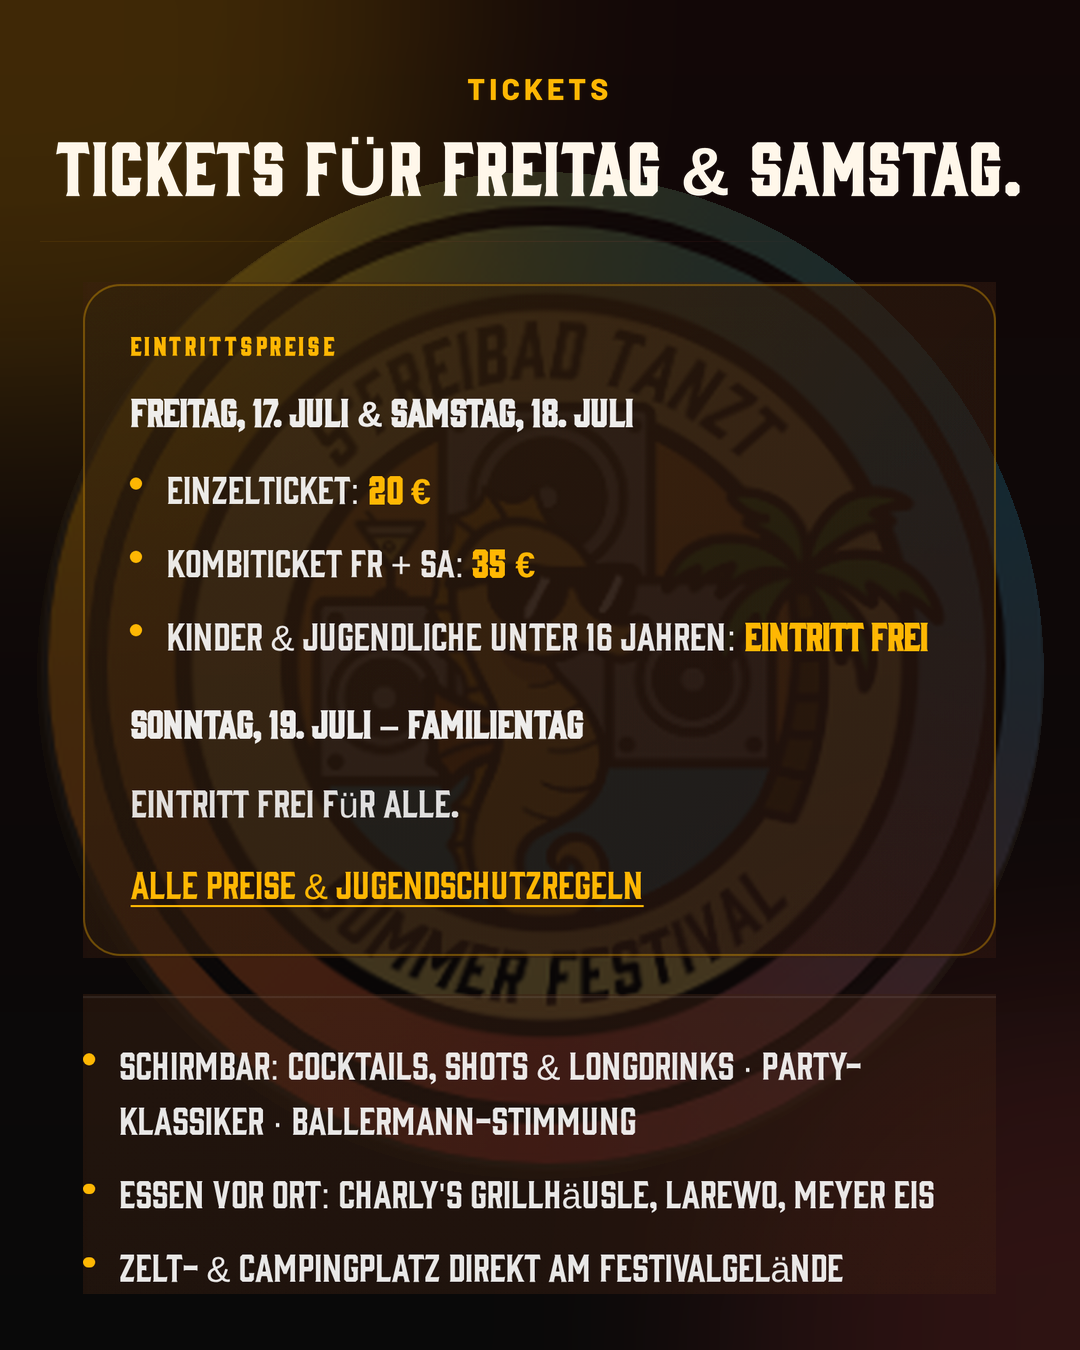
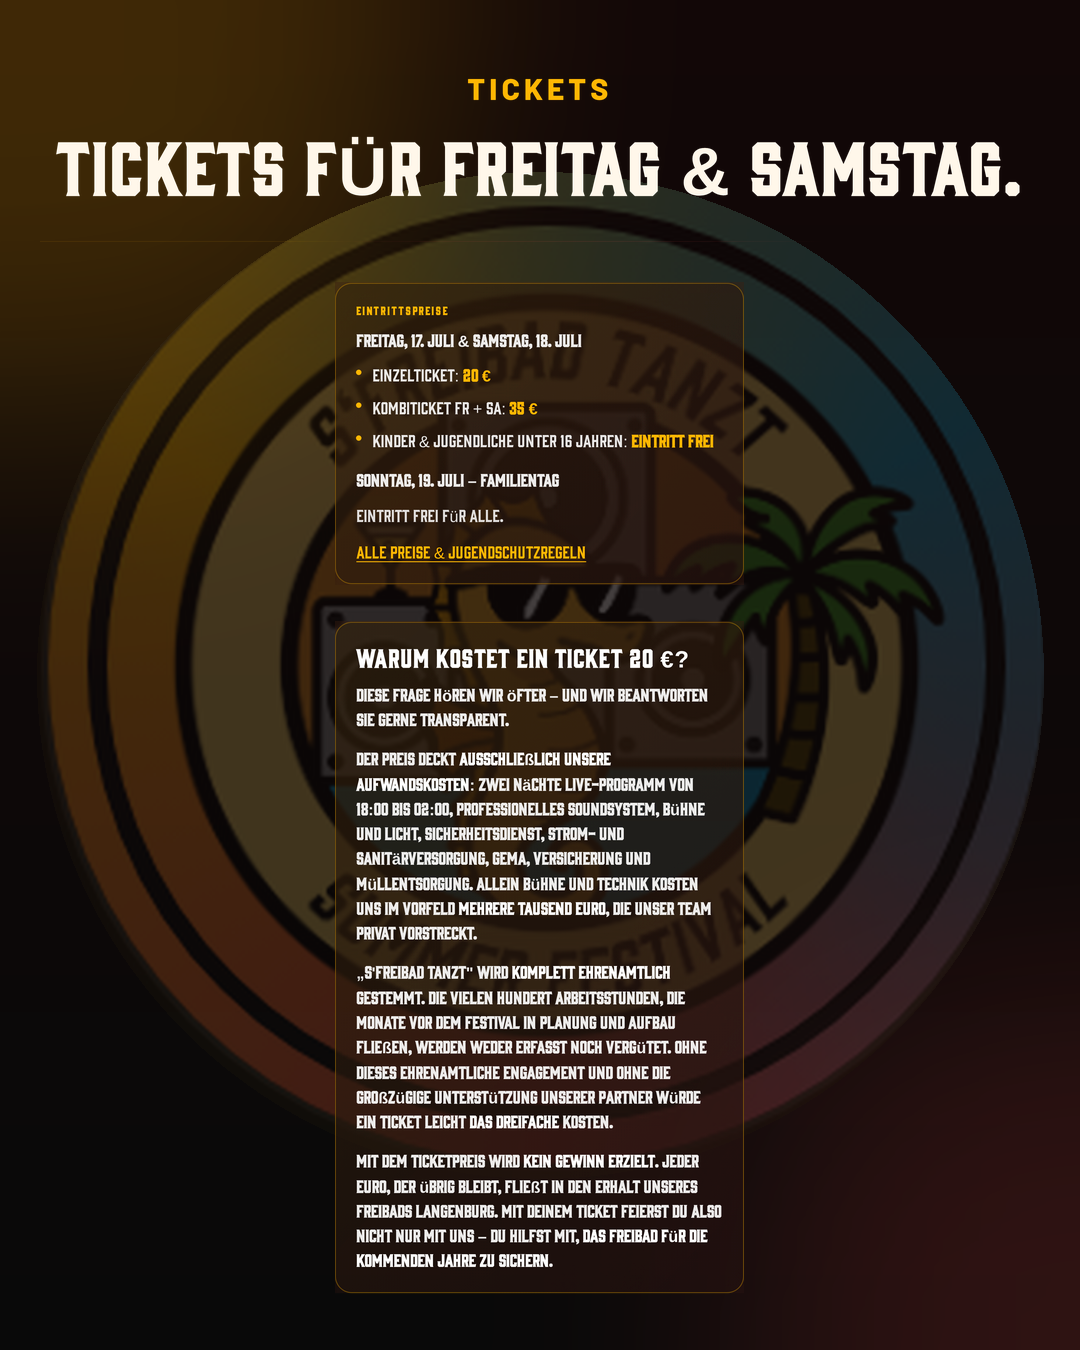
Camping-Anreise ab 12:00 Uhr, Ticket-Slides ohne VVK neu generiert
Anreise im Camping-Bereich und FAQ angepasst. Ticket-Slide 3 zeigt
nur Eintrittspreise (20 €/35 €) plus Transparenz-Text statt Highlights.

Changed region(s): [[0.0611, 0.2178, 0.8861, 0.9644], [0.825, 0.3111, 0.9167, 0.3422], [0.0611, 0.4667, 0.0917, 0.5289]]

diff --git a/index.html b/index.html
@@ -408,7 +408,7 @@
         <article class="info-card">
           <h3>Anreise &amp; Abreise</h3>
           <ul class="info-card-list">
-            <li><strong>Anreise:</strong> Freitag ab 17:00 Uhr</li>
+            <li><strong>Anreise:</strong> Freitag ab 12:00 Uhr</li>
             <li><strong>Abreise:</strong> Sonntag bis 12:00 Uhr</li>
             <li><strong>Ansprechpartner vor Ort:</strong> Jannik</li>
           </ul>
@@ -742,7 +742,7 @@
             <summary>Gibt es einen Zeltplatz?</summary>
             <p>
               Ja! Direkt am Festivalgelände gibt's unseren Zeltplatz – <strong>10 €</strong> pro Zelt und
-              <strong>10 €</strong> pro Fahrzeug (jeweils fürs ganze Fest). Anreise Freitag ab 17:00 Uhr,
+              <strong>10 €</strong> pro Fahrzeug (jeweils fürs ganze Fest). Anreise Freitag ab 12:00 Uhr,
               Abreise Sonntag bis 12:00 Uhr. Toiletten sind vor Ort, tagsüber sorgen die Jungs vom Jagstklang
               für Musik. Alle Infos und Regeln findest du auf unserer
               <a href="#camping">Camping-Seite</a>.

diff --git a/exports/generate_instagram.py b/exports/generate_instagram.py
@@ -113,7 +113,10 @@ SECTIONS = [
         "slides": [
             [".ticket-poster-card", ".ticket-facts", ".ticket-qr-wrap"],
             [".ticket-info-body > .ticket-info-block:nth-of-type(1)"],
-            [".ticket-info-body > .ticket-info-block:nth-of-type(2)", ".ticket-info-highlights"],
+            [
+                ".ticket-info-body > .ticket-info-block:nth-of-type(2)",
+                ".ticket-info-body > .ticket-info-block:nth-of-type(3)",
+            ],
         ],
     },
     {
